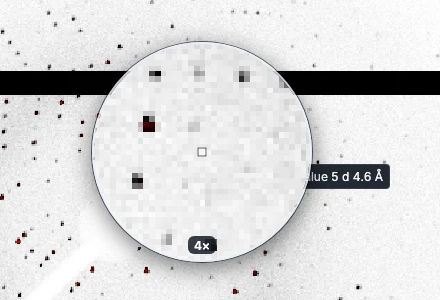
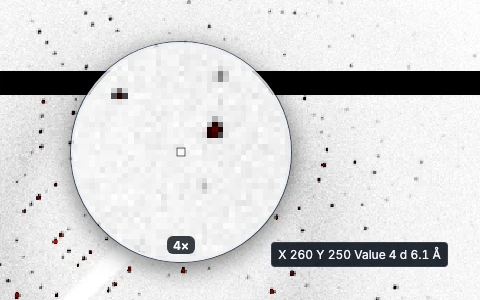
docs(readme): a current picture, made by the guide's script
The README's picture was taken by hand in an older ALBIS: an "Overlay" tab
where the Analysis tab now is, a browser's address bar and profile badge,
and someone's own dataset name in the status line. At 2560 x 1367 it was
also 1.2 MB, and the Linux software centres show the same file
(packaging/linux/ALBIS.metainfo.xml).

It is now the `readme` scene of scripts/guide_screenshots.mjs: the insulin
series with resolution rings, 30 found peaks, a circular ROI on the beam and
its radial profile, at 1600 x 900 (16:9, as AppStream prefers) and 558 KB.
It stays a PNG at the same path, because AppStream expects PNG and the
metainfo links it there. Scenes can now ask for their own window size, and
a shot can name its file and, by extension, its format.

The magnifier picture showed the cursor readout half under the lens. The
scene moved the mouse before pressing Z, so the readout was placed for no
lens; it now moves once more with Z held, as someone looking around does,
and the readout sits clear of the lens, in full.

diff --git a/README.md b/README.md
@@ -5,7 +5,7 @@
 [![Latest release](https://img.shields.io/github/v/release/SaschaAndresGrimm/ALBIS)](https://github.com/SaschaAndresGrimm/ALBIS/releases)
 [![DOI](https://zenodo.org/badge/DOI/10.5281/zenodo.22046648.svg)](https://doi.org/10.5281/zenodo.22046648)
 
-![ALBIS screenshot](frontend/resources/albis.png)
+![ALBIS showing a diffraction image of an insulin crystal with resolution rings, found peaks circled, a circular ROI on the beam centre and its radial profile](frontend/resources/albis.png)
 
 ALBIS is a free, open-source viewer for **DECTRIS detector data**, in the style of ALBULA. It opens HDF5 stacks, TIFF, CBF, EDF and MYTHEN acquisitions, follows a running experiment live, and runs on your own computer or on the machine that holds the data, viewed from a browser elsewhere.
 

diff --git a/docs/UI_GUIDE.md b/docs/UI_GUIDE.md
@@ -225,6 +225,9 @@ picture is a scene that sets the interface up and crops to the part a section
 is about, written as WebP into `docs/images/user-guide/`. A picture that looks
 the same as the one already there is left alone, so only what changed shows
 in `git status`; `--force` writes them all.
+The README's picture, `frontend/resources/albis.png`, is a scene too
+(`readme`): a PNG, because the Linux software centres show it as well
+(`packaging/linux/ALBIS.metainfo.xml`) and AppStream expects PNG.
 
 When a change alters something a picture shows, run the scenes for it and
 commit the new pictures with the change. A new picture is a new scene;
